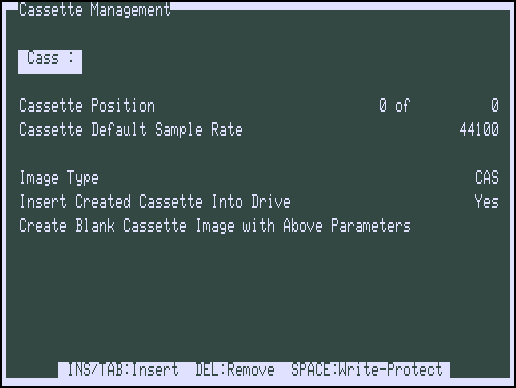
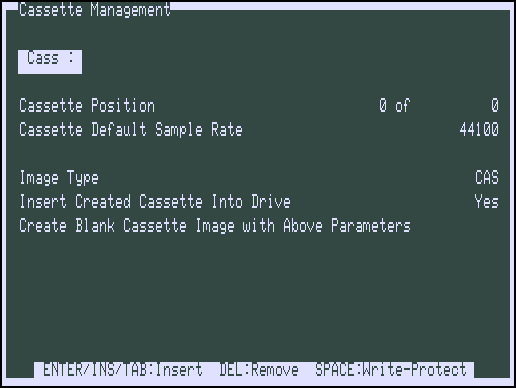
Add key to GUI help message

Changed region(s): [[0.062, 0.9278, 0.8372, 0.9897], [0.8682, 0.9278, 0.9302, 0.9897]]

diff --git a/src/trs_sdl_gui.c b/src/trs_sdl_gui.c
@@ -910,7 +910,7 @@ int trs_gui_display_menu(const char *title, MENU_ENTRY *entry, int selection)
   trs_gui_frame(0, 0, 63, 15);
   trs_gui_write_text(title, 2, 0, 0);
   if (strstr(title, "Man"))
-    trs_gui_center_text(" INS/TAB:Insert  DEL:Remove  SPACE:Write-Protect ", 15, 1);
+    trs_gui_center_text(" ENTER/INS/TAB:Insert  DEL:Remove  SPACE:Write-Protect ", 15, 1);
 
   while (entry[num].type != 0) {
     trs_gui_write_text(entry[num].text, 2, num + 2, 0);
